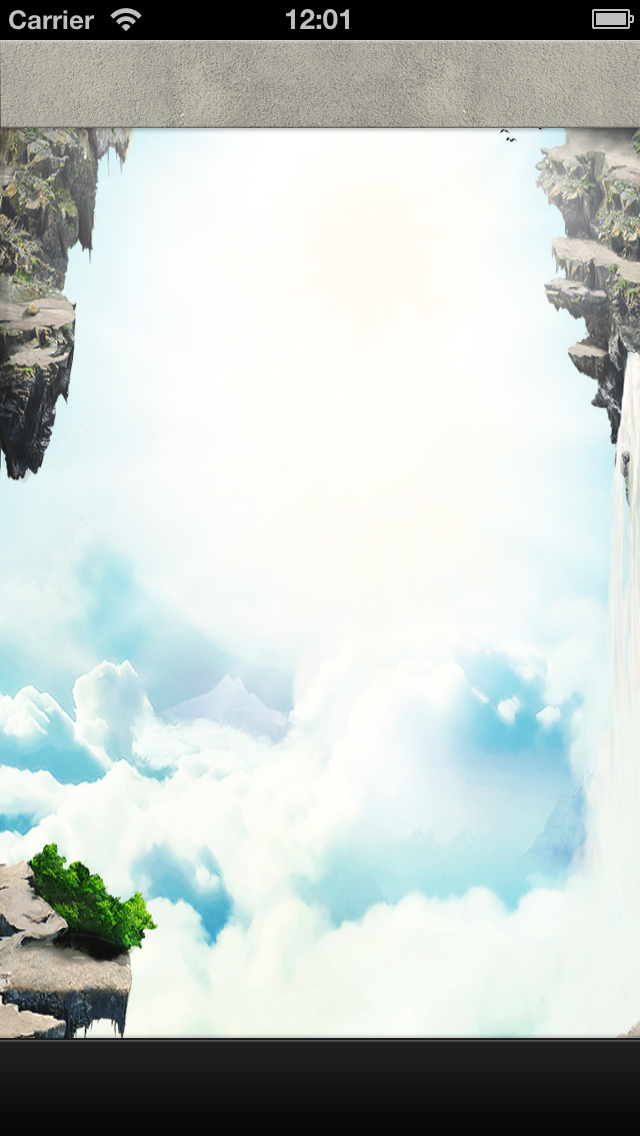
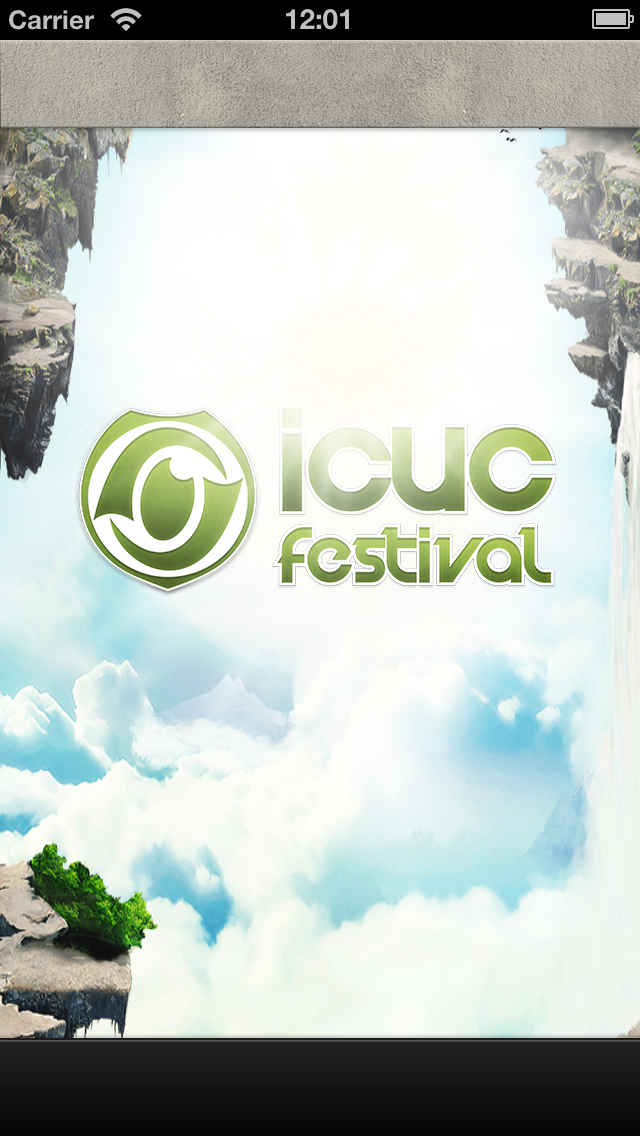
Added launch screen & screenshots

diff --git a/Source/IcucApp.Touch/AppDelegate.cs b/Source/IcucApp.Touch/AppDelegate.cs
@@ -52,7 +52,7 @@ namespace IcucApp
             }
 
             // Go ahead and ask the user for permission to use Push Notifications
-            UIApplication.SharedApplication.RegisterForRemoteNotificationTypes(UIRemoteNotificationType.Alert);
+            UIApplication.SharedApplication.RegisterForRemoteNotificationTypes(UIRemoteNotificationType.Alert | UIRemoteNotificationType.Sound);
 
             // if the options is null we can stop here.
             if (options == null)
@@ -91,6 +91,9 @@ namespace IcucApp
 	    public override void OnActivated(UIApplication application)
 	    {
             Log.DebugFormat("OnActivated...");
+
+            // Reset badge
+            UIApplication.SharedApplication.ApplicationIconBadgeNumber = 0;
 	    }
 
 	    public override void OnResignActivation(UIApplication application)
@@ -228,7 +231,9 @@ namespace IcucApp
 
                     // Manually show an alert
                     Log.InfoFormat("ReceivedRemoteNotification: alert: {0}, custom: {1}", alert, custom);
-                    UIAlertHelper.ShowAlert("Notification", alert, "Ok");
+
+                    // don't display anything
+                    // UIAlertHelper.ShowAlert("Notification", alert, "Ok");
                 }
             }
         }

diff --git a/Source/IcucApp.Core/Presentation/LineupPresenter.cs b/Source/IcucApp.Core/Presentation/LineupPresenter.cs
@@ -23,7 +23,7 @@ namespace IcucApp.Presentation
 		private readonly IMapper<WordpressEntry, FeedData> _wordpressMapper;
         private readonly AppSettings _appSettings;
         private int _segment = 0;
-        private bool _isActive;
+        // private bool _isActive;
         private readonly ILog _log = LogManager.GetLogger(typeof(LineupPresenter).Name);
 
         public LineupPresenter(ILineupView view,
@@ -42,8 +42,8 @@ namespace IcucApp.Presentation
         public void Initialize()
         {
             _dataLoader.DataLoaded += (sender, e) => {
-                if (!_isActive)
-                    return;
+                //if (!_isActive)
+                //    return;
                 var feed = _cache.GetLineupFeed(_segment == 0 ? "lineup" : "lineup2");
                 if (feed != null) {
                     DataBindView(feed);
@@ -53,7 +53,7 @@ namespace IcucApp.Presentation
 
         public void OnViewShown()
         {
-            _isActive = true;
+            //_isActive = true;
             var lineupFeedCategory = _segment == 0 ? "lineup" : "lineup2";
             var feed = _cache.GetLineupFeed(lineupFeedCategory);
 			if (feed == null)

diff --git a/Source/IcucApp.Touch/Services/DataLoader.cs b/Source/IcucApp.Touch/Services/DataLoader.cs
@@ -189,14 +189,6 @@ namespace IcucApp
             ReloadWebsiteLineup("app-" + category, category);
         }
 
-//        public void ReloadWebsiteLineup() {
-//            ReloadWebsiteLineup("app-lineup", "lineup");
-//        }
-//
-//        public void ReloadWebsiteLineupFucia() {
-//            ReloadWebsiteLineup("app-lineup2", "lineup2");
-//        }
-
         public void ReloadWebsiteLineup(string feed, string category) {
             Task.Factory
                 .StartNew<WordpressMessage>(() => 

diff --git a/Source/IcucApp.Touch/ViewControllers/Elements/LineupEntryCell.cs b/Source/IcucApp.Touch/ViewControllers/Elements/LineupEntryCell.cs
@@ -73,6 +73,9 @@ namespace IcucApp
 				if (image != null) {
 					_feedImage.Image = image.Crop(ImageWitdh, ImageHeigth, CropPosition.Center).RemoveSharpEdges(4);
 				}
+                else {
+                    _feedImage.Image = null;
+                }
 			}
             _timeLabel.Text = data.Published.ToString("HH:mm", new CultureInfo("nl-BE"));
 		}
